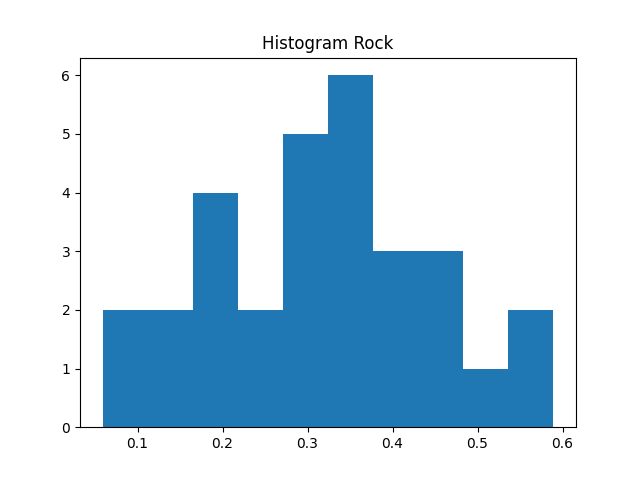
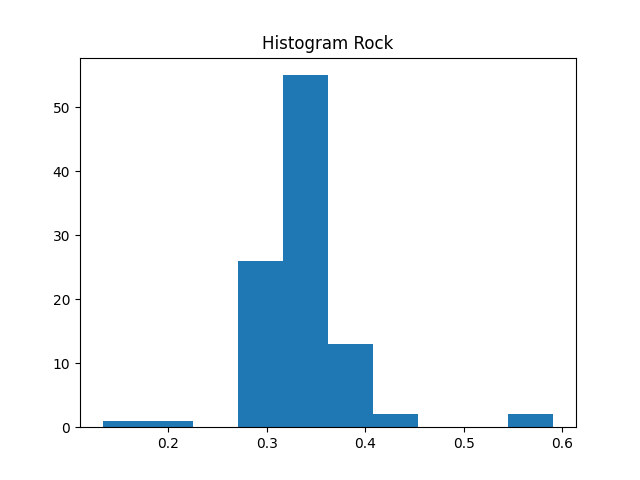
everythting's Working now time for big start

diff --git a/analyze.py b/analyze.py
@@ -1,5 +1,6 @@
 import pandas as pd
 import matplotlib.pyplot as plt
+import numpy as np
 from SETTINGS import *
 
 def analyze(path):
@@ -17,6 +18,7 @@ def analyze(path):
     plt.plot(Data["day"], Data["count_scissors"], label="scissors", color='green')
     plt.legend(loc='upper left')
     plt.savefig("diagrams/Evolution.png")
+    
     
     plt.cla()
     

diff --git a/SETTINGS.py b/SETTINGS.py
@@ -1,7 +1,7 @@
-Start_people = 10
-Mutation_factor = 0.15
-Tree_count = 50
-Days = 30
+Start_people = 10_000
+Mutation_factor = 0.2
+Tree_count = 50_000
+Days = 100
 path_to_data = "data/table.csv"
 
 ROCK = 0
